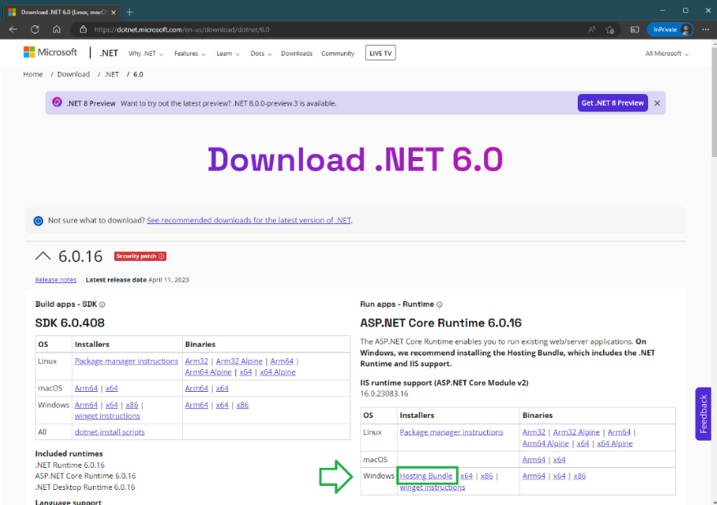
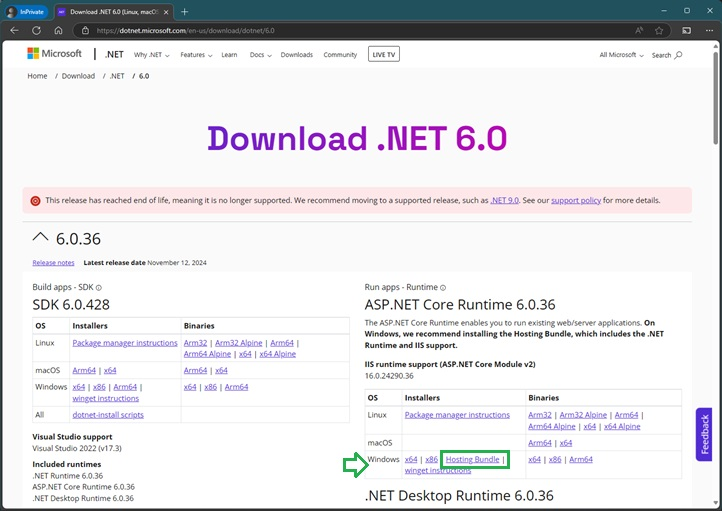
Update CLR recommendation.

Changed region(s): [[0.0, 0.0, 1.0, 1.0], [0.9819, 0.0, 1.0, 0.0297]]

diff --git a/Installation/setting-up-iis-websites-for-the-first-time.md b/Installation/setting-up-iis-websites-for-the-first-time.md
@@ -38,15 +38,18 @@ need a different Host name for the API server.
 
 ![file](./pictures/installation-web-site-1.jpg "Setup API website")
 
-#### Set application pool idle timeout
+#### Set application pool parameters
 
-To prevent the app from shutting down due to inactivity, you need to set the idle timeout of the
-application pool to 0. In IIS Manager, find the Application Pool with the same name. It is located 
-in the tree on the left under Application Pools. Right-click on it and choose Advanced Settings.
+To prevent the back-end app from shutting down due to inactivity, you need to set the idle timeout 
+of the application pool to 0. In IIS Manager, find the Application Pool with the same name. It is 
+located in the tree on the left under Application Pools. Right-click on it and choose Advanced Settings.
 In the modal popup, find the Idle Time-out (minutes) field and set it to 0. This will prevent the 
 application from shutting down due to inactivity.
 
-![file](./pictures/installation-app-pool-idle-time.jpg "App Pool Idle Time-out")
+Also, change the .NET CLR Version value to *No Managed Code*. This is optional, but is recommended as
+the app does not rely on loading the desktop CLR (.NET CLR).
+
+![file](./pictures/installation-app-pool-parameters.jpg "App Pool parameters")
 
 ### Create a website for the front-end application
 

diff --git a/Installation/preparing-the-web-server.md b/Installation/preparing-the-web-server.md
@@ -79,7 +79,10 @@ Install the downloaded module by double-clicking the installer and following its
 ## Downloading and installing ASP.NET Core 6.0 Hosting Bundles
 
 SPS v3 is developed using .NET 6.0 (LTS). To install the required runtimes, download the latest
-ASP.NET Core Runtimes 6.0.x Hosting Bundles from Microsoft's page.
+minor release of [ASP.NET Core Runtimes 6 Hosting Bundles]((https://dotnet.microsoft.com/en-us/download/dotnet/6.0))
+from Microsoft's website, even with the warning that it is End-of-life. 
+
+> WARNING! Downloading versions 7, 8, or 9 will not work with the SPS v3 application.
  
 ![file](./pictures/installation-net-core-runtime.jpg "Download .NET 6.0")
 
